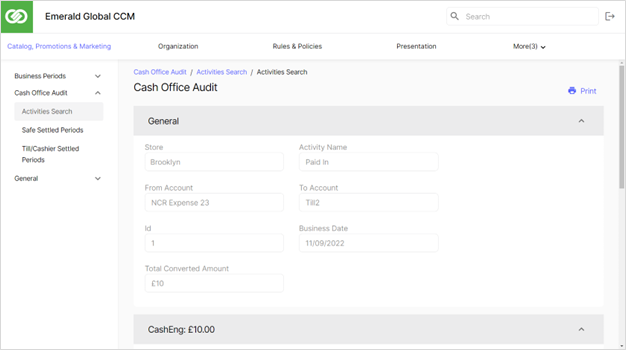
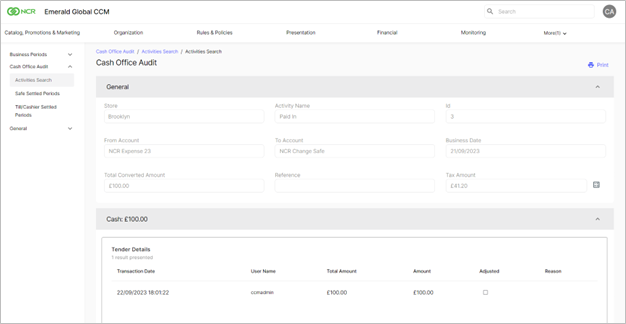
Changes to be committed:

diff --git a/Cash_Office/General/Account_Profiles.md b/Cash_Office/General/Account_Profiles.md
@@ -61,8 +61,13 @@ Cash Office Accounts are used when performing activities with the different medi
 |Manager Approval for Paid Out Lower than|The minimum amount that can be accepted in a Paid Out activity. When the amount is less than the minimum amount, the Manager Approval message is prompted, and the manager must approve the Paid Out amount before the transaction is completed.|
 |Manager Approval Message|The message displayed when Manager Approval is required for a Paid Out amount that exceeds the specified minimum and maximum amount limits.|
 |Roles|The role which must be assigned to a user to allow the user to approve the Paid Out amount. Only roles which include the Approve Pay In Out Exceeded Threshold action in the Cash Office section can be selected. See Operations/Security/Roles.|
-|**Tax Association**|Records cash office transaction tax amounts in the transaction.
-|Allow Tax Entry|When set to Yes, on performing a Paid in or Paid Out at the POS touchpoint, the cashier is required to enter the tax amount charged.|
-|**Associated Accounts**||
-|Associated Accounts|The relevant account types that the Income and Expense Accounts are associated with. The options are:<BR>* Till<BR>* Safe<BR>* Cashier<BR>**Note**:<BR>When no accounts are selected, all Paid In/Paid Out Accounts are associated to Income and Expense Accounts. (Default)|
-|
+|**Tax Association**|Records cash office transaction tax amounts in the transaction.<BR>Tax amounts can be based on fixed amount or tax rate. For example, on purchasing items from a supplier, different VAT rates may be applied to items in the invoice. On performing a Paid Out to pay the supplier, users can manually add the tax amount based on the tax rate for each item in the invoice.|
+|None|Indicates that tax amounts cannot be entered in Paid in or Paid Out Cash Office Activities. (Default)|
+|Allow Tax Entry|Indicates that on performing a Paid in or Paid Out, the user can enter a Total Tax amount.<BR>**Note**: The **Allow Tax Entry** field is only used to record fixed Tax Amounts.|
+|Allow Tax Entry by VAT Rate|Indicates that on performing a Paid in or Paid Out, the user can enter the tax amount based on the VAT rate applied to the item.|
+|Tax Entry is Adjustable|Indicates that the tax amount based on the VAT rate can be adjusted.<BR>See also: Tax Rates<BR>**Note**: The **Tax Entry is Adjustable** field is enabled only when the **Allow Tax Entry by VAT Rate** option is selected.
+|**Associated Accounts**|The Cash Office accounts associated to Income and Expense Accounts.<BR>Some Income and Expense Accounts are relevant only to specific account types, for example, employee reimbursement is paid from a Till account, and voucher payment is only relevant to Safe Accounts.|
+|Associated Account|The relevant account types that the Income and Expense Accounts are associated with. The options are:<BR>* Till<BR>* Safe<BR>* Cashier<BR>**Note**: When no accounts are selected, all Paid In/Paid Out Accounts are associated to Income and Expense Accounts. (Default)<BR>For example, when an Income and Expense Account is associated to a specific Till Account, at the POS, on selecting the Paid In/Paid Out function, only the associated Till Accounts are displayed.|
+|**Restricted Tenders Per Activity**|Specifies the tenders that can be used in Paid In/Paid Out Cash Office Activities associated with Income and Expense accounts in all Business Units and Touchpoint Groups.<BR>**Note**: The **Restricted Tender Per Activity** section is only displayed for Income and Expense Account Profiles.|
+|Paid In Restricted for Tenders|The tenders that can be used as payment in a Paid In activity.|
+|Paid Out Restricted for Tenders|The tenders that can be used for payment in a Paid Out activity.|

diff --git a/Cash_Office/Cash_Office_Audit/Activities_Search.md b/Cash_Office/Cash_Office_Audit/Activities_Search.md
@@ -15,7 +15,7 @@
 |**Touchpoint ID**|The touchpoint whose activities you want to view.|
 |**Start Business Date**|The date from which you want to view the cash office activity.|
 |**End Business Date**|The date up to which you want to view the cash office activity.|
-|**Adjusted Transactions Only**|Indicates that only Cash office activities in which at least one adjustment was performed are retrieved and displayed in the Cash Office Activities Log grid.|
+|**Monetary Adjusted Transactions Only**|Indicates that only Cash office activities in which at least one adjustment was performed are retrieved and displayed in the Cash Office Activities Log grid.|
 |**Cash Office Activities Log**||
 |Transaction Date|The date and time the cash office transaction was performed.|
 |ID|The ID of the cash office activity transaction. The ID is a hyperlink that opens a the general and tender details of the cash office activity.|
@@ -35,12 +35,15 @@
 |---------|----------|
 |**General**||
 |Store|The name of the store in which the cash office activity was performed.|
-|Activity Name|The name of the cash office activity.|
+|Activity Name|The name of the cash office activity.|\
+|Id|The ID of the cash office transaction.|
 |From Account|The account from which money was transferred.|
 |To Account|The account to which money was transferred.|
-|Id|The ID of the cash office transaction.|
 |Business Date|The business date the transaction was performed on.|
 |Total Converted Amount|The total amount of money (foreign currency) after the amount is converted into the local currency for the activity.|
+|Reference|The activity reference defined when performing the activity.|
+|Tax Amount|The tax amount applied in the Cash Office Activity.<BR>If the Tax Amount is based on a Tax Rate, the  ![Tax rate icon](/Images/taxrateicon.png) icon is displayed.<BR>On clicking the icon, the Tax Rates screen is displayed. See also: Tax Rates.|
+|**Additional Info**|Displays additional information relevant to Cash Office Activities, for example, the name of a second cashier who counted the Safe amounts in a Bank Deposit.<BR>This field is displayed based on the configuration of the **AdditionalInfo** parameter in the CashOfficeActivityConfigurationMaintenanceRequest RTI.<BR>The configuration options are:<BR>* Optional – the Additional Info field is displayed as optional.<BR>* Mandatory - the Additional Info field is displayed as mandatory.<BR>* Not Required - the Additional Info field is not displayed.|
 |**Tenders**||
 |Transaction Date|The date on which the transaction was performed.|
 |User Name||The name of the user who performed the transaction.|

diff --git a/Cash_Office/Business_Periods/Update TIll/Cashier_Period_End_Date.md b/Cash_Office/Business_Periods/Update TIll/Cashier_Period_End_Date.md
@@ -1,0 +1,21 @@
+## Update Till/Cashier Period End Date
+
+**Update Till/Cashier Period End Date** enables retailers to manually close a business period without affecting the original business schedule.  
+For example, the store business period is scheduled to run between Monday to Friday. The EOD process is scheduled to run at 22.00 on Friday.
+
+![grid screen](/Images/UpdateTillCashierPeriodEndDategridscreen.png)
+
+* Due to an operations issue, the retailer decides to manually close the business period at 17.00 on Wednesday. 
+* For that week only there will be two business periods- one from Friday -Wednesday, and one from Thursday to Friday.
+
+The following week, the business periods are still closed according to the original business schedule.
+
+**Reference Path:** *Cash Office/Business Periods/ Update Till/Cashier Period End Date*
+
+![Update Till/Cashier Period End Date screen](/Images/UpdateTillCashierPeriodEndDatescreen.png)
+
+|**Field**|**Description**|
+|---------|----------|
+|**Store**|The store in which the Business period is manually closed|
+|**Default Date**|The date on which the business period was due to close defined in business day scheduler|
+|**Current Till Closing Date**|The date on which the business period is manually closed.<BR>The Till Closing Date is set between the current date and the Default Date.<BR>In the Business Day Scheduler module, if the Action set for the Business period is set to ‘Ignore’ and an ‘Execute’ exception is defined for that date, the current date can be selected if the EOD has not yet run.<BR>The Till Closing Date cannot be set to:<BR>* A past date (before the current system date)<BR>* After the current defined business period date (Default date)<BR>* A date on which an EOD is not linked, including dates on which the linked EOD is set to ‘Ignore’.<BR>The date manually selected in the **Current Till Closing Date** field can be changed back to the original till scheduled date.|
